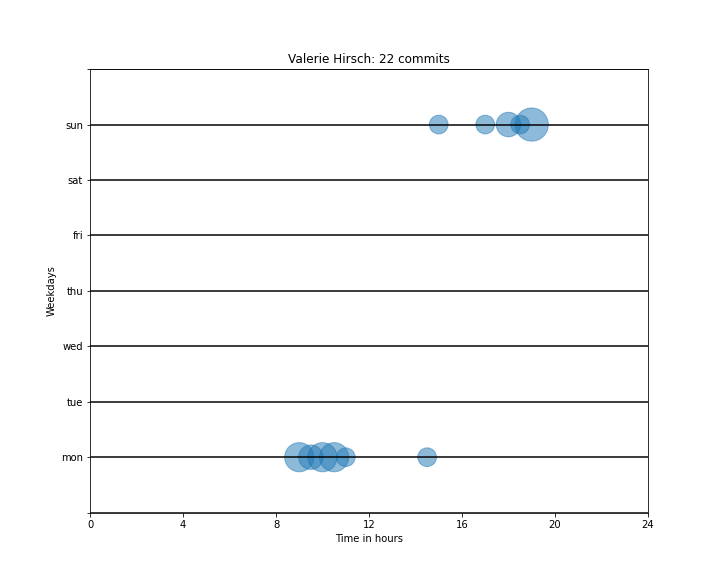
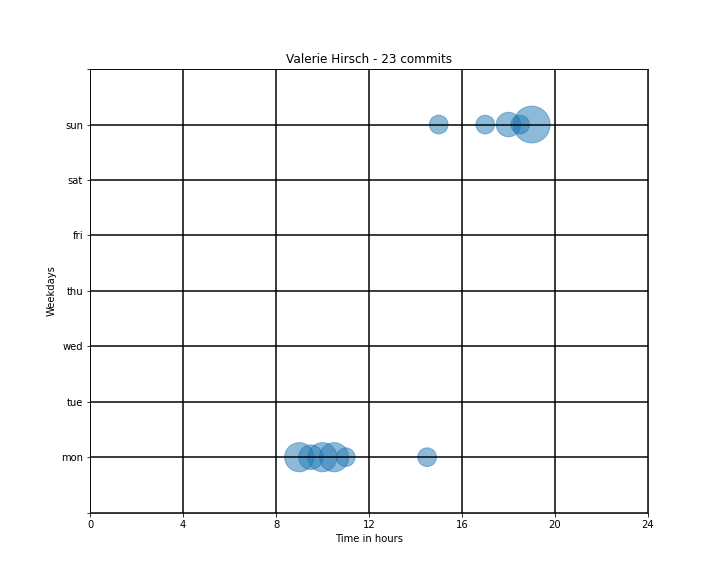
grid correction

Changed region(s): [[0.3972, 0.0938, 0.6417, 0.125], [0.7028, 0.1875, 0.7639, 0.25]]

diff --git a/sew5_sem1p/ue04/statistik.py b/sew5_sem1p/ue04/statistik.py
@@ -70,8 +70,8 @@ def main(args: argparse.Namespace) -> None:
         plt.xticks(range(0, 25, 4))
 
         plt.xlabel('Time in hours')
-        plt.title(f'Valerie Hirsch: {nbrOfCommits} commits')
-        plt.grid(True, which="major", axis="y", linestyle="-", linewidth=1.5, color='black')
+        plt.title(f'Valerie Hirsch - {nbrOfCommits} commits')
+        plt.grid(True, which="major", axis="both", linestyle="-", linewidth=1.5, color='black')
         logger.debug("Data set")
         plt.savefig("Statistik_Hirsch.png", dpi=72)
         logger.info("Finished")
